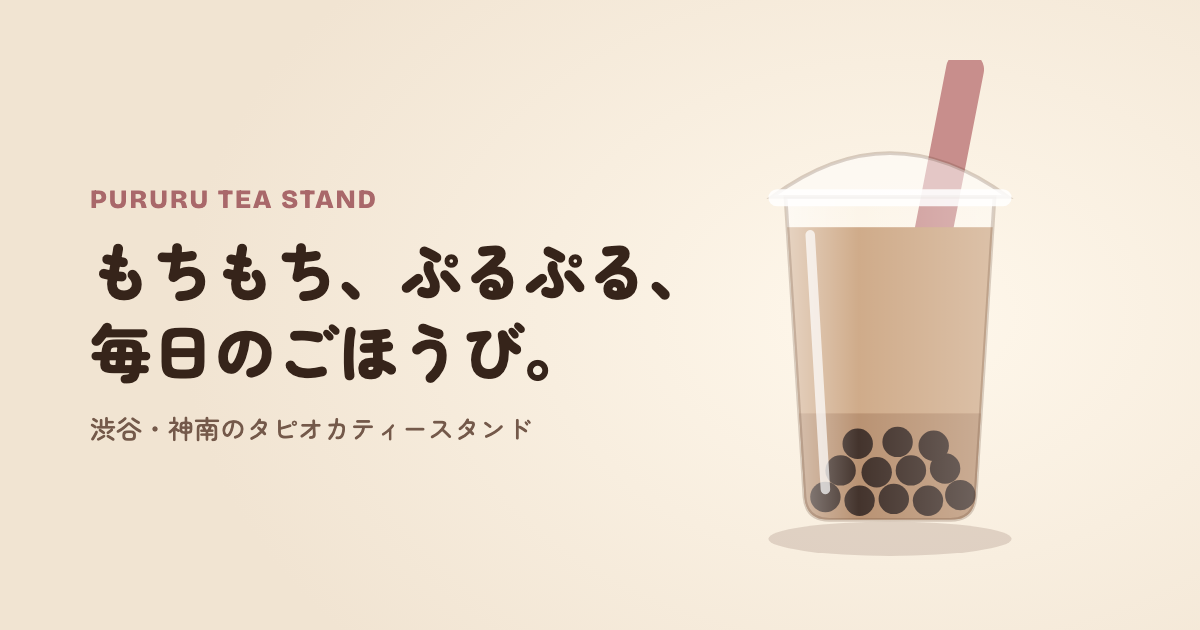
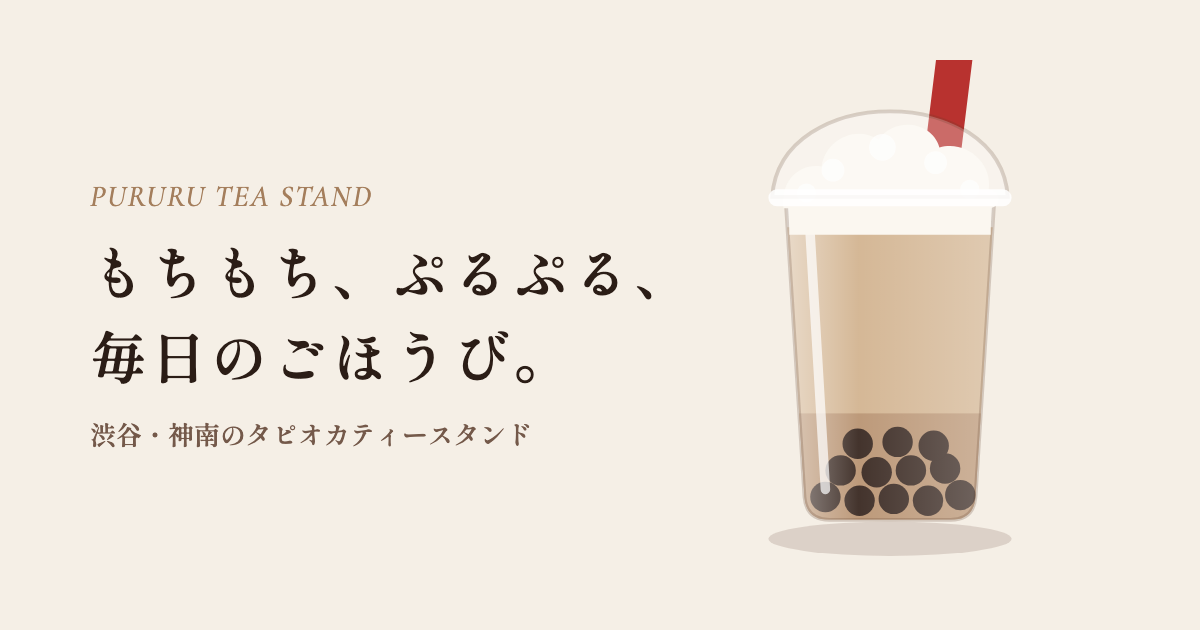
写真を参考に、フワフワのトッピングと赤いストローのドリンクに変更

diff --git a/index.html b/index.html
@@ -25,7 +25,7 @@
   <link rel="preconnect" href="https://fonts.googleapis.com">
   <link rel="preconnect" href="https://fonts.gstatic.com" crossorigin>
   <link rel="stylesheet" href="https://fonts.googleapis.com/css2?family=Cormorant+Garamond:ital,wght@0,400;0,500;0,600;1,400;1,500&family=Shippori+Mincho+B1:wght@500;600;700&family=Zen+Maru+Gothic:wght@400;500;700&display=swap">
-  <link rel="stylesheet" href="css/style.css?v=3">
+  <link rel="stylesheet" href="css/style.css?v=4">
 
   <script type="importmap">
   {
@@ -35,7 +35,7 @@
     }
   }
   </script>
-  <script type="module" src="js/main.js?v=2"></script>
+  <script type="module" src="js/main.js?v=3"></script>
 </head>
 <body>
   <a class="skip-link" href="#main">本文へスキップ</a>
@@ -58,7 +58,7 @@
     </defs>
     <symbol id="cup" viewBox="0 0 200 270">
       <ellipse cx="100" cy="252" rx="64" ry="9" fill="#5B3B2A" opacity=".16"/>
-      <rect x="111" y="-6" width="20" height="210" rx="9" fill="var(--straw, #C88E8C)" transform="rotate(11 121 100)"/>
+      <rect x="112" y="-14" width="19" height="214" rx="5" fill="var(--straw, #B8322F)" transform="rotate(7 121 100)"/>
       <g clip-path="url(#clip-cup)">
         <rect x="40" y="88" width="120" height="160" fill="var(--liquid, #C9A07A)"/>
         <rect x="40" y="186" width="120" height="60" fill="var(--syrup, #8B5A3A)" opacity="var(--syrup-o, .35)"/>
@@ -75,7 +75,13 @@
       </g>
       <path d="M45 72h110l-10 158q-1 12-13 12H68q-12 0-13-12z" fill="url(#g-glass)" stroke="#5B3B2A" stroke-opacity=".22" stroke-width="2"/>
       <path d="M58 92 66 226" stroke="#fff" stroke-opacity=".7" stroke-width="5" stroke-linecap="round"/>
-      <path d="M38 72q62-46 124 0z" fill="#fff" fill-opacity=".5" stroke="#5B3B2A" stroke-opacity=".22" stroke-width="2"/>
+      <g style="opacity: var(--crown-o, 1)">
+        <path d="M47 92V76h106v16z" fill="var(--crown, #FBF7F0)"/>
+        <path d="M44 78c-2-14 8-24 20-22 2-14 18-22 30-14 8-12 28-10 32 4 14-4 28 8 26 22 8 2 6 10 0 10H44z" fill="var(--crown, #FBF7F0)"/>
+        <g fill="#fff" opacity=".7"><circle cx="70" cy="58" r="6"/><circle cx="96" cy="46" r="7"/><circle cx="124" cy="54" r="6"/><circle cx="142" cy="68" r="5"/><circle cx="56" cy="70" r="5"/></g>
+        <g fill="#F1CF86" style="opacity: var(--crumb-o, 0)"><rect x="80" y="40" width="9" height="8" rx="2" transform="rotate(20 84 44)"/><rect x="100" y="34" width="10" height="8" rx="2"/><rect x="118" y="44" width="9" height="8" rx="2" transform="rotate(-15 122 48)"/><rect x="92" y="52" width="8" height="7" rx="2"/><rect x="66" y="52" width="8" height="7" rx="2" transform="rotate(30 70 55)"/><rect x="132" y="58" width="8" height="7" rx="2"/></g>
+      </g>
+      <path d="M38 72c4-60 120-60 124 0z" fill="#fff" fill-opacity=".28" stroke="#5B3B2A" stroke-opacity=".2" stroke-width="2"/>
       <rect x="36" y="68" width="128" height="9" rx="4.5" fill="#fff" fill-opacity=".85" stroke="#5B3B2A" stroke-opacity=".2" stroke-width="1.5"/>
     </symbol>
   </svg>
@@ -214,7 +220,7 @@
         <div class="tab-panel" role="tabpanel" id="panel-milk" aria-labelledby="tab-milk">
           <ul class="menu-list">
             <li class="menu-item">
-              <svg class="menu-thumb" viewBox="0 0 200 270" aria-hidden="true"><use href="#cup" style="--liquid:#C9A07A"/></svg>
+              <svg class="menu-thumb" viewBox="0 0 200 270" aria-hidden="true"><use href="#cup" style="--liquid:#CFAE88"/></svg>
               <div class="menu-body">
                 <p class="badge badge-pink">人気No.1</p>
                 <h3>ぷるるミルクティー</h3>
@@ -245,7 +251,7 @@
         <div class="tab-panel" role="tabpanel" id="panel-fruit" aria-labelledby="tab-fruit" hidden>
           <ul class="menu-list">
             <li class="menu-item">
-              <svg class="menu-thumb" viewBox="0 0 200 270" aria-hidden="true"><use href="#cup" style="--liquid:#EDB7B5;--syrup:#D9737A;--syrup-o:.7"/></svg>
+              <svg class="menu-thumb" viewBox="0 0 200 270" aria-hidden="true"><use href="#cup" style="--liquid:#E3C2A6;--syrup:#D25F6A;--syrup-o:.45;--crown:#F2B29B;--crumb-o:1"/></svg>
               <div class="menu-body">
                 <p class="badge badge-pink">人気No.2</p>
                 <h3>いちごミルクティー</h3>
@@ -254,7 +260,7 @@
               <p class="price">¥650<small>税込</small></p>
             </li>
             <li class="menu-item">
-              <svg class="menu-thumb" viewBox="0 0 200 270" aria-hidden="true"><use href="#cup" style="--liquid:#F2C9A0;--syrup:#E8A57A;--syrup-o:.5"/></svg>
+              <svg class="menu-thumb" viewBox="0 0 200 270" aria-hidden="true"><use href="#cup" style="--liquid:#F2C9A0;--syrup:#E8A57A;--syrup-o:.5;--crown-o:0"/></svg>
               <div class="menu-body">
                 <h3>白桃ウーロン</h3>
                 <p>白桃の果肉と、すっきりした烏龍茶。ミルクなしで軽く飲みたい日に。</p>
@@ -262,7 +268,7 @@
               <p class="price">¥640<small>税込</small></p>
             </li>
             <li class="menu-item">
-              <svg class="menu-thumb" viewBox="0 0 200 270" aria-hidden="true"><use href="#cup" style="--liquid:#E9DC8E;--syrup:#C9B24E;--syrup-o:.4"/></svg>
+              <svg class="menu-thumb" viewBox="0 0 200 270" aria-hidden="true"><use href="#cup" style="--liquid:#E9DC8E;--syrup:#C9B24E;--syrup-o:.4;--crown-o:0"/></svg>
               <div class="menu-body">
                 <p class="badge">さっぱり</p>
                 <h3>瀬戸内レモン緑茶</h3>
@@ -308,8 +314,7 @@
             <canvas class="custom-canvas" data-custom-canvas></canvas>
             <div class="stage-fallback custom-fallback" data-custom-fallback>
               <svg viewBox="0 0 200 270">
-                <use href="#cup"/>
-                <g data-fb="foam"><path d="M47 88h106l-1.2 18H48.2z" fill="#FFF6E8"/></g>
+                <use href="#cup" style="--crown-o: 0"/>
                 <g data-fb="ice" fill="#fff" fill-opacity=".55" stroke="#fff" stroke-opacity=".9">
                   <rect x="62" y="92" width="22" height="22" rx="4" transform="rotate(-12 73 103)" data-ice="1"/>
                   <rect x="110" y="96" width="22" height="22" rx="4" transform="rotate(14 121 107)" data-ice="2"/>
@@ -386,7 +391,7 @@
           <li class="insta-tile" style="--bg:#EFE3DE">
             <svg viewBox="0 0 300 300" role="img" aria-label="ピンクの背景に、苺ミルクのカップ">
               <circle cx="60" cy="70" r="26" fill="#fff" opacity=".5"/><circle cx="250" cy="230" r="40" fill="#fff" opacity=".4"/>
-              <g transform="translate(150 160) rotate(-6) translate(-82 -110)"><svg width="164" height="221" viewBox="0 0 200 270"><use href="#cup" style="--liquid:#EDB7B5;--syrup:#D9737A;--syrup-o:.7"/></svg></g>
+              <g transform="translate(150 160) rotate(-6) translate(-82 -110)"><svg width="164" height="221" viewBox="0 0 200 270"><use href="#cup" style="--liquid:#E3C2A6;--syrup:#D25F6A;--syrup-o:.45;--crown:#F2B29B;--crumb-o:1"/></svg></g>
             </svg>
           </li>
           <li class="insta-tile" style="--bg:#E6E7D9">
@@ -398,19 +403,19 @@
           <li class="insta-tile" style="--bg:#2B1D16">
             <svg viewBox="0 0 300 300" role="img" aria-label="こげ茶の背景に、黒糖ミルクのカップ">
               <circle cx="150" cy="150" r="118" fill="#fff" opacity=".07"/>
-              <g transform="translate(150 158) rotate(5) translate(-82 -110)"><svg width="164" height="221" viewBox="0 0 200 270"><use href="#cup" style="--liquid:#D6B796;--syrup:#3A1E10;--syrup-o:.85;--straw:#F2DEDA"/></svg></g>
+              <g transform="translate(150 158) rotate(5) translate(-82 -110)"><svg width="164" height="221" viewBox="0 0 200 270"><use href="#cup" style="--liquid:#D6B796;--syrup:#3A1E10;--syrup-o:.85"/></svg></g>
             </svg>
           </li>
           <li class="insta-tile" style="--bg:#EDE4D7">
             <svg viewBox="0 0 300 300" role="img" aria-label="ベージュの背景に、ミルクティーが2杯">
-              <g transform="translate(108 162) rotate(-8) translate(-70 -94)"><svg width="140" height="189" viewBox="0 0 200 270"><use href="#cup" style="--liquid:#C9A07A"/></svg></g>
-              <g transform="translate(196 166) rotate(7) translate(-70 -94)"><svg width="140" height="189" viewBox="0 0 200 270"><use href="#cup" style="--liquid:#B48760;--straw:#5B3B2A"/></svg></g>
+              <g transform="translate(108 162) rotate(-8) translate(-70 -94)"><svg width="140" height="189" viewBox="0 0 200 270"><use href="#cup" style="--liquid:#CFAE88"/></svg></g>
+              <g transform="translate(196 166) rotate(7) translate(-70 -94)"><svg width="140" height="189" viewBox="0 0 200 270"><use href="#cup" style="--liquid:#B48760"/></svg></g>
             </svg>
           </li>
           <li class="insta-tile" style="--bg:#F2EBDB">
             <svg viewBox="0 0 300 300" role="img" aria-label="黄色の背景に、レモン緑茶とレモンの輪切り">
               <g transform="translate(232 70)"><circle r="30" fill="#F4D65E"/><circle r="24" fill="#FBE993"/><path d="M0-24V24M-24 0H24M-17-17 17 17M17-17-17 17" stroke="#F4D65E" stroke-width="2.5"/></g>
-              <g transform="translate(140 160) rotate(-4) translate(-82 -110)"><svg width="164" height="221" viewBox="0 0 200 270"><use href="#cup" style="--liquid:#E9DC8E;--syrup:#C9B24E;--syrup-o:.4;--straw:#7D9A5A"/></svg></g>
+              <g transform="translate(140 160) rotate(-4) translate(-82 -110)"><svg width="164" height="221" viewBox="0 0 200 270"><use href="#cup" style="--liquid:#E9DC8E;--syrup:#C9B24E;--syrup-o:.4;--crown-o:0"/></svg></g>
             </svg>
           </li>
           <li class="insta-tile" style="--bg:#E3D7C6">

diff --git a/js/three-scene.js b/js/three-scene.js
@@ -4,10 +4,10 @@ import { RoomEnvironment } from 'three/addons/environments/RoomEnvironment.js';
 
 // 味ごとの色。liquid＝ドリンク、syrup＝底のシロップ（タピオカが沈んでいる層）
 export const FLAVORS = {
-  milk:   { liquid: '#C29469', syrup: '#8B5A3A', syrupO: 0.38 },
-  matcha: { liquid: '#A3BA78', syrup: '#5E7A3A', syrupO: 0.4 },
-  berry:  { liquid: '#EDB7B5', syrup: '#D25F6A', syrupO: 0.6 },
-  kokuto: { liquid: '#D6B796', syrup: '#3E200F', syrupO: 0.86 },
+  milk:   { liquid: '#CFAE88', syrup: '#8B5A3A', syrupO: 0.34, crown: '#FBF7F0' },
+  matcha: { liquid: '#A3BA78', syrup: '#5E7A3A', syrupO: 0.4, crown: '#F8F6EC' },
+  berry:  { liquid: '#E3C2A6', syrup: '#D25F6A', syrupO: 0.45, crown: '#F2B29B', crumbs: true },
+  kokuto: { liquid: '#D6B796', syrup: '#3E200F', syrupO: 0.86, crown: '#FBF6EE' },
 };
 
 export function canUseWebGL() {
@@ -189,17 +189,47 @@ export function createDrinkScene(canvas, opts = {}) {
   pearls.renderOrder = 2;
   content.add(pearls);
 
-  // ---- トッピング ----
-  const foam = new THREE.Mesh(
-    new THREE.CylinderGeometry(rIn(2.95), rIn(LIQ_TOP - 0.02), 0.4, q.seg),
-    new THREE.MeshStandardMaterial({ color: 0xfff3e0, roughness: 0.92 })
-  );
-  foam.position.y = LIQ_TOP + 0.18;
-  foam.scale.y = 0.001;
-  foam.visible = false;
-  content.add(foam);
-
+  // ---- ふちから盛り上がるフワフワのトッピング（チーズフォーム） ----
   const rand = seeded(42);
+  const crownMat = new THREE.MeshStandardMaterial({ color: 0xfbf7f0, roughness: 0.95 });
+  const crown = new THREE.Group();
+  crown.position.y = LIQ_TOP;
+  const crownR = rIn(H);
+  const crownBase = new THREE.Mesh(new THREE.CylinderGeometry(crownR, rIn(LIQ_TOP), H - LIQ_TOP, q.seg), crownMat);
+  crownBase.position.y = (H - LIQ_TOP) / 2;
+  const mound = new THREE.Mesh(new THREE.SphereGeometry(crownR, q.seg, 16, 0, Math.PI * 2, 0, Math.PI / 2), crownMat);
+  mound.scale.y = 0.5;
+  mound.position.y = H - LIQ_TOP;
+  const puffCount = q.pearls >= 30 ? 160 : 100;
+  const puffs = new THREE.InstancedMesh(new THREE.IcosahedronGeometry(1, 1), crownMat, puffCount);
+  const pd = new THREE.Object3D();
+  for (let i = 0; i < puffCount; i++) {
+    const th = Math.acos(rand() * 0.92);           // 上の半球に散らす
+    const ph = rand() * Math.PI * 2;
+    pd.position.set(Math.sin(th) * Math.cos(ph) * crownR, H - LIQ_TOP + Math.cos(th) * crownR * 0.5, Math.sin(th) * Math.sin(ph) * crownR);
+    pd.scale.setScalar(0.055 + rand() * 0.075);
+    pd.updateMatrix();
+    puffs.setMatrixAt(i, pd.matrix);
+  }
+  crown.add(crownBase, mound, puffs);
+  // 苺のときだけ、上にクランブルをのせる
+  const crumbs = new THREE.Group();
+  const crumbMat = new THREE.MeshStandardMaterial({ color: 0xf1cf86, roughness: 0.75 });
+  for (let i = 0; i < 24; i++) {
+    const m = new THREE.Mesh(new THREE.BoxGeometry(0.15, 0.13, 0.15), crumbMat);
+    const th = Math.acos(0.45 + rand() * 0.55);
+    const ph = rand() * Math.PI * 2;
+    m.position.set(Math.sin(th) * Math.cos(ph) * crownR * 0.95, H - LIQ_TOP + Math.cos(th) * crownR * 0.5 + 0.12, Math.sin(th) * Math.sin(ph) * crownR * 0.95);
+    m.rotation.set(rand() * 3, rand() * 3, rand() * 3);
+    m.scale.setScalar(0.7 + rand() * 0.6);
+    crumbs.add(m);
+  }
+  crumbs.visible = false;
+  crown.add(crumbs);
+  crown.scale.y = 0.001;
+  crown.visible = false;
+  content.add(crown);
+
   const nataMat = new THREE.MeshPhysicalMaterial({ color: 0xfffaf0, roughness: 0.15, transparent: true, opacity: 0.85, clearcoat: 1 });
   const nata = new THREE.Group();
   for (let i = 0; i < 9; i++) {
@@ -264,7 +294,7 @@ export function createDrinkScene(canvas, opts = {}) {
     new THREE.SphereGeometry(RT + 0.03, q.seg, 14, 0, Math.PI * 2, 0, Math.PI * 0.42),
     glassMat
   );
-  lid.scale.y = 0.48;
+  lid.scale.y = 0.85;
   lid.position.y = H;
   lid.renderOrder = 4;
   const rimRing = new THREE.Mesh(
@@ -276,11 +306,12 @@ export function createDrinkScene(canvas, opts = {}) {
   content.add(lid, rimRing);
 
   const strawMat = new THREE.MeshPhysicalMaterial({
-    color: 0xc88e8c, roughness: 0.3, metalness: 0, transparent: true, opacity: 0.92, clearcoat: 0.6,
+    color: 0xb8322f, roughness: 0.32, metalness: 0, clearcoat: 0.7, clearcoatRoughness: 0.2,
   });
-  const straw = new THREE.Mesh(new THREE.CylinderGeometry(0.16, 0.16, 4.7, 28, 1, true), strawMat);
-  straw.position.set(0.2, 2.45, 0.05);
-  straw.rotation.z = -0.2;
+  const straw = new THREE.Mesh(new THREE.CylinderGeometry(0.17, 0.17, 4.8, 28, 1, true), strawMat);
+  straw.position.set(0.32, 2.55, -0.22);
+  straw.rotation.z = -0.13;
+  straw.rotation.x = -0.06;
   content.add(straw);
 
   // ---- 状態と、滑らかに近づける目標値 ----
@@ -288,6 +319,7 @@ export function createDrinkScene(canvas, opts = {}) {
     liquid: new THREE.Color(FLAVORS.milk.liquid),
     syrup: new THREE.Color(FLAVORS.milk.syrup),
     syrupO: FLAVORS.milk.syrupO,
+    crown: new THREE.Color(FLAVORS.milk.crown),
   };
   const target = {
     flavor: 'milk',
@@ -381,16 +413,18 @@ export function createDrinkScene(canvas, opts = {}) {
     // 氷はぷかぷか
     ice.forEach((m, i) => {
       const u = m.userData;
-      m.position.y = LIQ_TOP + 0.06 + 0.34 * cur.foam + Math.sin(elapsed * 1.3 + u.ph) * 0.03;
+      m.position.y = LIQ_TOP + 0.06 + Math.sin(elapsed * 1.3 + u.ph) * 0.03;
       m.rotation.y = u.rot[1] + Math.sin(elapsed * 0.5 + i) * 0.1;
     });
 
-    // チーズフォームは、ぷるんと出てくる
-    const foamGoal = target.toppings.foam ? 1 : 0;
-    cur.foam += (foamGoal - cur.foam) * (1 - Math.exp(-dt * 7));
-    foam.visible = cur.foam > 0.01;
-    foam.scale.y = Math.max(0.001, cur.foam);
-    foam.position.y = LIQ_TOP - 0.02 + 0.2 * cur.foam;
+    // フワフワのトッピングは、ぷるんと盛り上がって出てくる
+    const foamGoal = opts.crown || target.toppings.foam ? 1 : 0;
+    cur.foam += (foamGoal - cur.foam) * (1 - Math.exp(-dt * 6));
+    crown.visible = cur.foam > 0.01;
+    crown.scale.set(1 + (1 - cur.foam) * 0.04, Math.max(0.001, cur.foam), 1 + (1 - cur.foam) * 0.04);
+    state.crown.lerp(tmpColor.set(f.crown), k);
+    crownMat.color.copy(state.crown);
+    crumbs.visible = !!f.crumbs && cur.foam > 0.6;
 
     renderer.render(scene, camera);
   }

diff --git a/js/main.js b/js/main.js
@@ -5,10 +5,10 @@ const FORMSPREE_ENDPOINT = 'https://formspree.io/f/YOUR_FORM_ID';
 
 // 3Dが使えないときの絵（SVG）用の色。js/three-scene.js の FLAVORS と同じ値
 const FLAVOR_COLORS = {
-  milk:   { liquid: '#C29469', syrup: '#8B5A3A', syrupO: 0.38, tint: '#F5EFE6', word: 'Milk Tea' },
-  matcha: { liquid: '#A3BA78', syrup: '#5E7A3A', syrupO: 0.4, tint: '#EEEEE2', word: 'Matcha' },
-  berry:  { liquid: '#EDB7B5', syrup: '#D25F6A', syrupO: 0.6, tint: '#F5EAE6', word: 'Strawberry' },
-  kokuto: { liquid: '#D6B796', syrup: '#3E200F', syrupO: 0.86, tint: '#EFE6DB', word: 'Kokuto' },
+  milk:   { liquid: '#CFAE88', syrup: '#8B5A3A', syrupO: 0.34, crown: '#FBF7F0', crumbO: 0, tint: '#F5EFE6', word: 'Milk Tea' },
+  matcha: { liquid: '#A3BA78', syrup: '#5E7A3A', syrupO: 0.4, crown: '#F8F6EC', crumbO: 0, tint: '#EEEEE2', word: 'Matcha' },
+  berry:  { liquid: '#E3C2A6', syrup: '#D25F6A', syrupO: 0.45, crown: '#F2B29B', crumbO: 1, tint: '#F5EAE6', word: 'Strawberry' },
+  kokuto: { liquid: '#D6B796', syrup: '#3E200F', syrupO: 0.86, crown: '#FBF6EE', crumbO: 0, tint: '#EFE6DB', word: 'Kokuto' },
 };
 
 const $ = (sel, root = document) => root.querySelector(sel);
@@ -86,6 +86,8 @@ function paintFallback(el, key) {
   el.style.setProperty('--liquid', c.liquid);
   el.style.setProperty('--syrup', c.syrup);
   el.style.setProperty('--syrup-o', c.syrupO);
+  el.style.setProperty('--crown', c.crown);
+  el.style.setProperty('--crumb-o', c.crumbO);
 }
 
 /* ---------- ヒーローと4つの味（スクロールで味が変わる） ---------- */
@@ -198,7 +200,8 @@ function updateCustom() {
   }
   // 3Dが使えないときの絵
   paintFallback(customFallback, s.flavor);
-  $('[data-fb="foam"]', customFallback).style.opacity = s.toppings.foam ? 1 : 0;
+  customFallback.style.setProperty('--crown-o', s.toppings.foam ? 1 : 0);
+  if (!s.toppings.foam) customFallback.style.setProperty('--crumb-o', 0);
   $('[data-fb="nata"]', customFallback).style.opacity = s.toppings.nata ? 1 : 0;
   $('[data-fb="azuki"]', customFallback).style.opacity = s.toppings.azuki ? 1 : 0;
   $$('[data-ice]', customFallback).forEach((r) => { r.style.opacity = Number(r.dataset.ice) <= s.ice ? 1 : 0; });
@@ -227,7 +230,7 @@ async function start3D() {
   if (reduceMotion) return;
   let mod;
   try {
-    mod = await import('./three-scene.js?v=1');
+    mod = await import('./three-scene.js?v=2');
   } catch (err) {
     console.warn('3Dを読み込めなかったため、イラストで表示します。', err);
     return;
@@ -238,6 +241,7 @@ async function start3D() {
   try {
     heroScene = mod.createDrinkScene($('[data-drink-canvas]'), {
       quality,
+      crown: true,
       onFail: () => stage.classList.remove('is-3d'),
     });
     stage.classList.add('is-3d');

diff --git a/css/style.css b/css/style.css
@@ -203,7 +203,7 @@ button, input, textarea, select { font: inherit; color: inherit; }
 .stage-fallback {
   position: absolute; inset: 0; z-index: 1;
   display: grid; place-items: center;
-  --liquid: #C29469; --syrup: #8B5A3A; --syrup-o: .35;
+  --liquid: #CFAE88; --syrup: #8B5A3A; --syrup-o: .34;
 }
 .is-3d > .stage-fallback { display: none; }
 .stage > .stage-fallback svg { width: min(46vw, 230px); height: auto; transform: translateY(4vh); }
